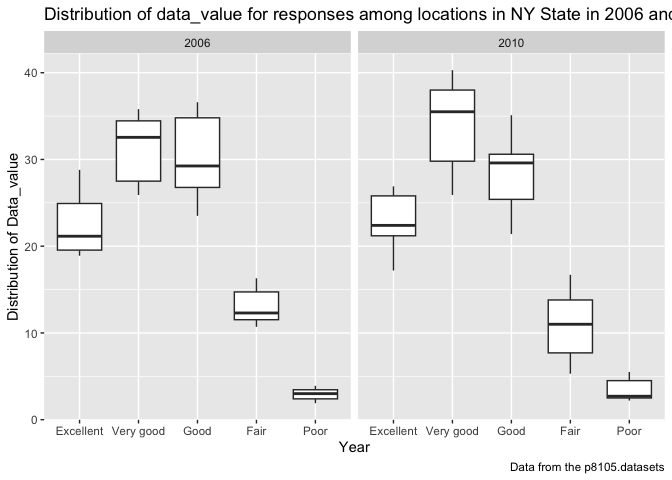
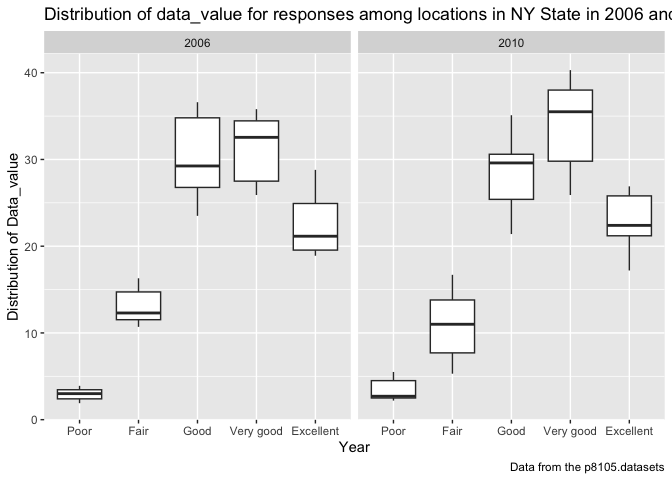
Revise Problem 2's order and add comments on Problem 2's graphs

diff --git a/p8105_hw3_yx2858.md b/p8105_hw3_yx2858.md
@@ -135,9 +135,9 @@ brfss_clean_df =
   brfss_smart2010 |>
   janitor::clean_names() |>
   filter(topic == "Overall Health") |> #filter the dataset to include only "Overall Health"
-  filter(response == "Excellent" | response == "Very good" | response == "Good" | response == "Fair" | response == "Poor") |>
+  filter(response == "Poor" | response == "Fair" | response == "Good" | response == "Very good" | response == "Excellent") |>
   mutate(response = as.factor(response), 
-         response = ordered(response, levels = c("Excellent", "Very good", "Good", "Fair", "Poor"))) #modify the "Response" variable by converting it 
+         response = ordered(response, levels = c("Poor", "Fair", "Good", "Very good", "Excellent"))) #modify the "Response" variable by converting it 
 ```
 
 #### Question2_2
@@ -201,6 +201,13 @@ question2_3_excellent |>
 ```
 
 ![](p8105_hw3_yx2858_files/figure-gfm/unnamed-chunk-10-1.png)<!-- -->
+This spaghetti plot illustrates the average value over time within
+different states, specifically focusing on the responses of “Excellent”.
+From the plot, the state WV has two significant outliers of 11.5 in year
+2005 and 13.4 in year 2009. Moreover, the state IN has an obvious
+outlier of 13.3 in year 2007 as well. All other average values over time
+lie between 15 to 30. The “theme_minimal” function enhances the clarity
+of visualization of the plot.
 
 #### Question2_4
 
@@ -229,6 +236,14 @@ question2_4_2006_2010 |>
 ```
 
 ![](p8105_hw3_yx2858_files/figure-gfm/unnamed-chunk-11-1.png)<!-- -->
+The boxplot shows the distribution of “data_value” across different
+responses categories within the state of NY for year 2006 and 2010. The
+boxplot indicates the visualization of median, quartile, and range. From
+both 2006 and 2010 graphs, the responses on “Poor” have the lowest
+values among locations in NY state, and comparatively the responses on
+“Very good” have the highest values. Moreover, the responses of “Good”
+in 2006 graph has moderate high values as well, but it has a lower
+median than the responses of “Very good” group.
 
 # Problem 3
 
